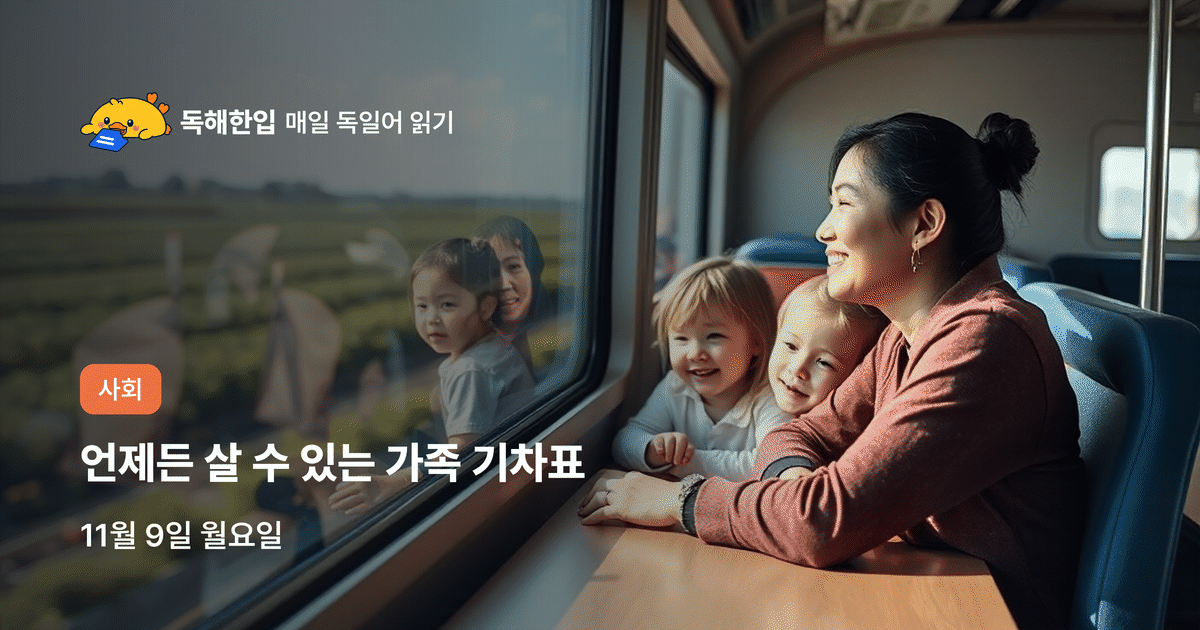
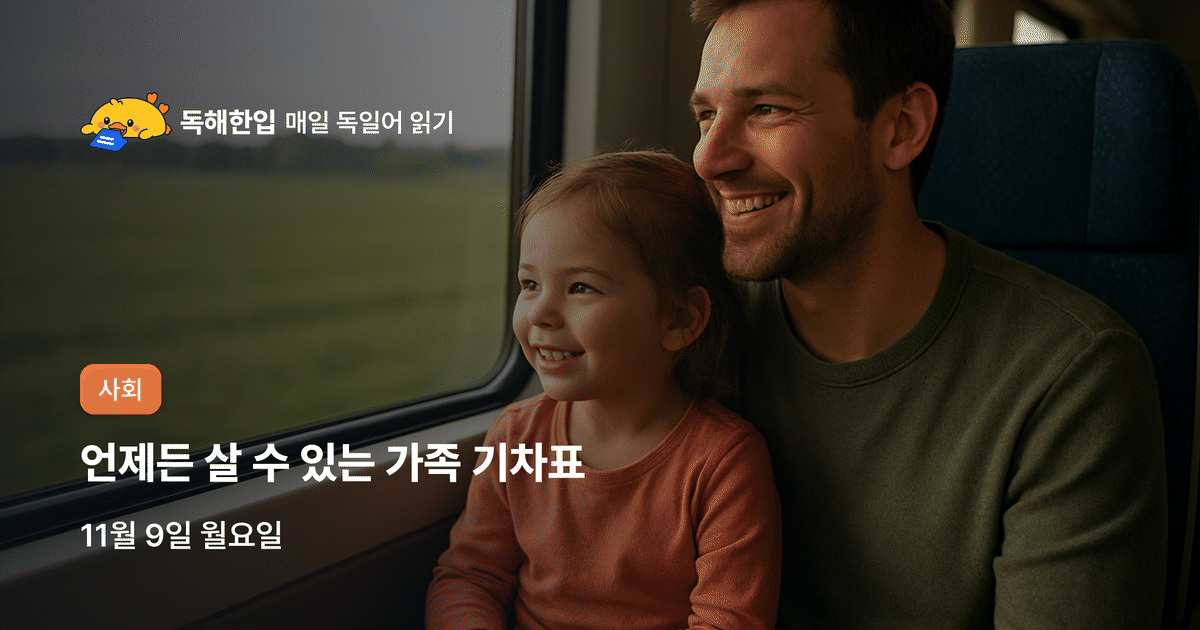
11/9 독일어 사진 교체, 사진 장면은 사람 두 명까지와 반사 금지 규칙 추가
로컬 FLUX 가 가족 넷과 유리창 반사 장면에서 얼굴이 엉키고 다른 얼굴이 비쳤다. Refs #25

diff --git a/tools/ROUTINE.ja.md b/tools/ROUTINE.ja.md
@@ -72,7 +72,7 @@
 5. **한 단계 위 어휘** `advanced`: 6~8개. **N2 수준** 단어, 한국어 뜻(주요 단어와 같은 기준: 사전 대응어로 짧게), 혼동 주의(없으면 `null`), 지문 내용을 그 단어로 바꿔 쓴 예문(해당 단어는 `**…**`), `example_ko`(예문의 한국어 해석, 필수).
 6. 그 밖의 필드: `topic`(한국어 주제어 2~8자, 예: "동네 빵집". 썸네일과 목록에 쓰인다), `title_ko`(페이지와 메일 제목. "오늘은 ___ 이야기예요"에 들어갈 자연스러운 한국어 명사구, 예: "동네의 작은 빵집". 아래 제목 짓는 법을 따른다), `headline`(제목 아래 작게 보이는 일본어 제목. N4 수준의 짧은 제목으로 새로 쓰고 한자에는 후리가나 표기, 예: "{近|ちか}くのパン{屋|や}"), `chips`(`["6문장", "N3 위주", "N3 문법 N문장", "약 4분"]`. N은 `"b2": true` 문장 수), `date`, `category`. `fit`(그날 유형: `news`, `explain`, `life`), `grammar`(쓴 문법 id, 예: `{"b": ["b-will"], "a": ["a-will"]}`, 없으면 각 빈 목록), `keywords`(소재를 나타내는 한국어 명사 2~4개와 장면 유형 1개, 예: `["아르바이트", "서점", "첫 경험"]`).
    **제목 짓는 법**: 원문 기사 제목을 옮기거나 줄이지 말고, 한국 잡지 편집자가 내용을 읽고 새로 붙이는 제목처럼 짓는다. 15자 안팎의 명사구로, 핵심 대상(무엇에 대한 이야기인지)을 꼭 넣는다. "~하려고", "~하기까지의" 같은 설명 꼬리를 길게 붙이지 않고, "환경", "현상" 같은 추상어로만 끝내지 않는다. "오늘은 ___ 이야기예요"에 넣어 소리 내어 읽었을 때 자연스러워야 한다. 좋은 예: "일부러 만든 안개 속 카메라 시험", "스스로 허리를 펴는 나무", "땅에 떨어지는 별똥별", "온천 이용 예절", "독일의 빈 병 보증금". 나쁜 예: "카메라를 시험하려고 일부러 만드는 안개와 비"(설명이 길다), "나무가 몸을 펴는 근육"(번역투), "카메라와 인공 기후 환경"(추상적).
-   - `photo_scene`: 맥 미니 이미지 API 로 썸네일 사진을 생성할 때 쓰는 장면 설명 **(선택 사항)**. 영어 한 문장, 40~300자. 구체적이고 시각적인 장면으로 쓰고 글자나 간판이 보이는 장면은 피한다. 무엇이(주인공), 어디서(배경), 언제 어떤 빛인지(예: 해질녘, 이른 아침 햇살, 흐린 오후), 얼마나 가까이서 보는지(클로즈업, 넓은 풍경)를 함께 쓴다. 주인공이 화면에서 크고 또렷하게 보이는 장면으로 쓴다. 밤하늘처럼 넓고 어두운 장면은 작게 보이면 썸네일에서 알아보기 어려우니 피하거나 가까이 잡는다. 모델은 비유를 글자 그대로 그리니("고사리 같은 서리"가 진짜 고사리로 나왔다) 비유 대신 실제로 보이는 모습으로 쓴다. 주인공이 둘 이상이면 함께 붙어 있는 장면으로 쓴다(따로 떨어뜨리면 하나가 사라졌다). 추상적인 주제(기억, 물가, 외로움, 인공지능 등)는 뜻을 보여 주는 구체적인 장면 하나로 바꾼다. 예: 외로움은 `"A single empty wooden chair by a large rainy window in a quiet room, soft grey daylight."`, 인공지능은 `"A young woman and a friendly white humanoid robot sitting side by side at a desk, looking at the same paper together."` 예: `"Close-up at sunrise of delicate white frost crystals covering the side window of a parked dark car, frosted grass softly blurred behind, cold blue light touched by the first warm rays of sun."` 이 필드가 있으면 발행 시 맥 미니 이미지 API(Tailscale 경유)가 FLUX.1 사진을 생성해 썸네일에 쓴다. 없거나 API 가 응답하지 않으면 OpenAI API 폴백이나 일러스트를 쓴다.
+   - `photo_scene`: 맥 미니 이미지 API 로 썸네일 사진을 생성할 때 쓰는 장면 설명 **(선택 사항)**. 영어 한 문장, 40~300자. 구체적이고 시각적인 장면으로 쓰고 글자나 간판이 보이는 장면은 피한다. 무엇이(주인공), 어디서(배경), 언제 어떤 빛인지(예: 해질녘, 이른 아침 햇살, 흐린 오후), 얼마나 가까이서 보는지(클로즈업, 넓은 풍경)를 함께 쓴다. 주인공이 화면에서 크고 또렷하게 보이는 장면으로 쓴다. 밤하늘처럼 넓고 어두운 장면은 작게 보이면 썸네일에서 알아보기 어려우니 피하거나 가까이 잡는다. 모델은 비유를 글자 그대로 그리니("고사리 같은 서리"가 진짜 고사리로 나왔다) 비유 대신 실제로 보이는 모습으로 쓴다. 주인공이 둘 이상이면 함께 붙어 있는 장면으로 쓴다(따로 떨어뜨리면 하나가 사라졌다). 사람은 두 명까지만 넣는다. 셋 이상이면 얼굴이 뭉개지거나 엉키고 빠지는 사람이 생겼다(2026-11-09 가족 넷 장면). 가족, 단체, 군중이 주제여도 두 사람이나 손, 사물로 보여 준다. 유리창이나 거울에 사람이 비치는 장면은 쓰지 않는다(비친 모습이 다른 얼굴로 나왔다). 추상적인 주제(기억, 물가, 외로움, 인공지능 등)는 뜻을 보여 주는 구체적인 장면 하나로 바꾼다. 예: 외로움은 `"A single empty wooden chair by a large rainy window in a quiet room, soft grey daylight."`, 인공지능은 `"A young woman and a friendly white humanoid robot sitting side by side at a desk, looking at the same paper together."` 예: `"Close-up at sunrise of delicate white frost crystals covering the side window of a parked dark car, frosted grass softly blurred behind, cold blue light touched by the first warm rays of sun."` 이 필드가 있으면 발행 시 맥 미니 이미지 API(Tailscale 경유)가 FLUX.1 사진을 생성해 썸네일에 쓴다. 없거나 API 가 응답하지 않으면 OpenAI API 폴백이나 일러스트를 쓴다.
 
 ### 기초(`levels.a`) 필드
 형식: `"levels": {"a": {"sentences": [{"en": "..."}, ...], "answers": ["...", ...]}}`

diff --git a/tools/ROUTINE.de.md b/tools/ROUTINE.de.md
@@ -68,7 +68,7 @@
 6. **한 단계 위 어휘** `advanced`: **반드시 6~8개**. B2 수준 단어, 한국어 뜻, 혼동 주의(없으면 `null`), 예문(`**…**`), `example_ko`.
 7. 기타: `topic`(한국어 주제어 2~8자), `title_ko`(페이지와 메일 제목. "오늘은 ___ 이야기예요"에 들어갈 자연스러운 한국어 명사구), `headline`(A2 수준 짧은 독일어 제목), `chips`(`["6문장", "B1 위주", "B2 1문장", "약 4분"]`), `date`, `category`. `fit`(그날 유형: `news`, `explain`, `life`), `grammar`(쓴 문법 id, 예: `{"b": ["b-will"], "a": ["a-will"]}`, 없으면 각 빈 목록), `keywords`(소재를 나타내는 한국어 명사 2~4개와 장면 유형 1개, 예: `["아르바이트", "서점", "첫 경험"]`).
    **제목 짓는 법**: 원문 기사 제목을 옮기거나 줄이지 말고, 한국 잡지 편집자가 내용을 읽고 새로 붙이는 제목처럼 짓는다. 15자 안팎의 명사구로, 핵심 대상(무엇에 대한 이야기인지)을 꼭 넣는다. "~하려고", "~하기까지의" 같은 설명 꼬리를 길게 붙이지 않고, "환경", "현상" 같은 추상어로만 끝내지 않는다. "오늘은 ___ 이야기예요"에 넣어 소리 내어 읽었을 때 자연스러워야 한다. 좋은 예: "일부러 만든 안개 속 카메라 시험", "스스로 허리를 펴는 나무", "땅에 떨어지는 별똥별", "온천 이용 예절", "독일의 빈 병 보증금". 나쁜 예: "카메라를 시험하려고 일부러 만드는 안개와 비"(설명이 길다), "나무가 몸을 펴는 근육"(번역투), "카메라와 인공 기후 환경"(추상적).
-   - `photo_scene`: 맥 미니 이미지 API 로 썸네일 사진을 생성할 때 쓰는 장면 설명 **(선택 사항)**. 영어 한 문장, 40~300자. 구체적이고 시각적인 장면으로 쓰고 글자나 간판이 보이는 장면은 피한다. 무엇이(주인공), 어디서(배경), 언제 어떤 빛인지(예: 해질녘, 이른 아침 햇살, 흐린 오후), 얼마나 가까이서 보는지(클로즈업, 넓은 풍경)를 함께 쓴다. 주인공이 화면에서 크고 또렷하게 보이는 장면으로 쓴다. 밤하늘처럼 넓고 어두운 장면은 작게 보이면 썸네일에서 알아보기 어려우니 피하거나 가까이 잡는다. 모델은 비유를 글자 그대로 그리니("고사리 같은 서리"가 진짜 고사리로 나왔다) 비유 대신 실제로 보이는 모습으로 쓴다. 주인공이 둘 이상이면 함께 붙어 있는 장면으로 쓴다(따로 떨어뜨리면 하나가 사라졌다). 추상적인 주제(기억, 물가, 외로움, 인공지능 등)는 뜻을 보여 주는 구체적인 장면 하나로 바꾼다. 예: 외로움은 `"A single empty wooden chair by a large rainy window in a quiet room, soft grey daylight."`, 인공지능은 `"A young woman and a friendly white humanoid robot sitting side by side at a desk, looking at the same paper together."` 예: `"Close-up at sunrise of delicate white frost crystals covering the side window of a parked dark car, frosted grass softly blurred behind, cold blue light touched by the first warm rays of sun."` 이 필드가 있으면 발행 시 맥 미니 이미지 API(Tailscale 경유)가 FLUX.1 사진을 생성해 썸네일에 쓴다. 없거나 API 가 응답하지 않으면 OpenAI API 폴백이나 일러스트를 쓴다.
+   - `photo_scene`: 맥 미니 이미지 API 로 썸네일 사진을 생성할 때 쓰는 장면 설명 **(선택 사항)**. 영어 한 문장, 40~300자. 구체적이고 시각적인 장면으로 쓰고 글자나 간판이 보이는 장면은 피한다. 무엇이(주인공), 어디서(배경), 언제 어떤 빛인지(예: 해질녘, 이른 아침 햇살, 흐린 오후), 얼마나 가까이서 보는지(클로즈업, 넓은 풍경)를 함께 쓴다. 주인공이 화면에서 크고 또렷하게 보이는 장면으로 쓴다. 밤하늘처럼 넓고 어두운 장면은 작게 보이면 썸네일에서 알아보기 어려우니 피하거나 가까이 잡는다. 모델은 비유를 글자 그대로 그리니("고사리 같은 서리"가 진짜 고사리로 나왔다) 비유 대신 실제로 보이는 모습으로 쓴다. 주인공이 둘 이상이면 함께 붙어 있는 장면으로 쓴다(따로 떨어뜨리면 하나가 사라졌다). 사람은 두 명까지만 넣는다. 셋 이상이면 얼굴이 뭉개지거나 엉키고 빠지는 사람이 생겼다(2026-11-09 가족 넷 장면). 가족, 단체, 군중이 주제여도 두 사람이나 손, 사물로 보여 준다. 유리창이나 거울에 사람이 비치는 장면은 쓰지 않는다(비친 모습이 다른 얼굴로 나왔다). 추상적인 주제(기억, 물가, 외로움, 인공지능 등)는 뜻을 보여 주는 구체적인 장면 하나로 바꾼다. 예: 외로움은 `"A single empty wooden chair by a large rainy window in a quiet room, soft grey daylight."`, 인공지능은 `"A young woman and a friendly white humanoid robot sitting side by side at a desk, looking at the same paper together."` 예: `"Close-up at sunrise of delicate white frost crystals covering the side window of a parked dark car, frosted grass softly blurred behind, cold blue light touched by the first warm rays of sun."` 이 필드가 있으면 발행 시 맥 미니 이미지 API(Tailscale 경유)가 FLUX.1 사진을 생성해 썸네일에 쓴다. 없거나 API 가 응답하지 않으면 OpenAI API 폴백이나 일러스트를 쓴다.
 
 ### 기초(levels.a) 지문 필드
 `levels.a`는 중급 지문과 1:1로 대응하는 6개 문장이다.

diff --git a/tools/ROUTINE.md b/tools/ROUTINE.md
@@ -75,7 +75,7 @@
    - `answers`: 문장 순서대로의 모범 해석.
    - `advanced`: 6~8개. `confuse`는 혼동 주의가 없으면 `null`, 있으면 "precious(소중한)와 혼동 주의" 형태. `example`의 해당 단어는 `**단어**`. `example_ko`는 `example` 문장의 자연스러운 한국어 번역(필수). 예: `"example_ko": "지지자들은 30분 안에 주문을 받을 수 있는 편리함을 칭찬합니다."`
    - `source`: 소식과 설명 날은 `{"title": "기사 제목 (매체, YYYY-MM-DD)", "url": "..."}`, 생활 글 날과 출처를 못 찾은 날은 `null`. 출처 없는 글은 페이지에 "특정 기사를 바탕으로 하지 않은 학습용 글"로 표시됩니다.
-   - `photo_scene`: 맥 미니 이미지 API 로 썸네일 사진을 생성할 때 쓰는 장면 설명 **(선택 사항)**. 영어 한 문장, 40~300자. 구체적이고 시각적인 실제 장면을 묘사하고, 글자나 간판이 보이는 장면은 피한다. 무엇이(주인공), 어디서(배경), 언제 어떤 빛인지(예: 해질녘, 이른 아침 햇살, 흐린 오후), 얼마나 가까이서 보는지(클로즈업, 넓은 풍경)를 함께 쓴다. 주인공이 화면에서 크고 또렷하게 보이는 장면으로 쓴다. 밤하늘처럼 넓고 어두운 장면은 작게 보이면 썸네일에서 알아보기 어려우니 피하거나 가까이 잡는다. 모델은 비유를 글자 그대로 그리니("고사리 같은 서리"가 진짜 고사리로 나왔다) 비유 대신 실제로 보이는 모습으로 쓴다. 주인공이 둘 이상이면 함께 붙어 있는 장면으로 쓴다(따로 떨어뜨리면 하나가 사라졌다). 추상적인 주제(기억, 물가, 외로움, 인공지능 등)는 뜻을 보여 주는 구체적인 장면 하나로 바꾼다. 예: 외로움은 `"A single empty wooden chair by a large rainy window in a quiet room, soft grey daylight."`, 인공지능은 `"A young woman and a friendly white humanoid robot sitting side by side at a desk, looking at the same paper together."` 예: `"Close-up at sunrise of delicate white frost crystals covering the side window of a parked dark car, frosted grass softly blurred behind, cold blue light touched by the first warm rays of sun."` 이 필드가 있으면 발행 시 맥 미니 이미지 API(tools/image-api/server.py, Tailscale 경유)가 FLUX.1 사진을 생성해 썸네일에 쓴다. 없거나 API 가 응답하지 않으면 OpenAI API 폴백이나 일러스트를 쓴다.
+   - `photo_scene`: 맥 미니 이미지 API 로 썸네일 사진을 생성할 때 쓰는 장면 설명 **(선택 사항)**. 영어 한 문장, 40~300자. 구체적이고 시각적인 실제 장면을 묘사하고, 글자나 간판이 보이는 장면은 피한다. 무엇이(주인공), 어디서(배경), 언제 어떤 빛인지(예: 해질녘, 이른 아침 햇살, 흐린 오후), 얼마나 가까이서 보는지(클로즈업, 넓은 풍경)를 함께 쓴다. 주인공이 화면에서 크고 또렷하게 보이는 장면으로 쓴다. 밤하늘처럼 넓고 어두운 장면은 작게 보이면 썸네일에서 알아보기 어려우니 피하거나 가까이 잡는다. 모델은 비유를 글자 그대로 그리니("고사리 같은 서리"가 진짜 고사리로 나왔다) 비유 대신 실제로 보이는 모습으로 쓴다. 주인공이 둘 이상이면 함께 붙어 있는 장면으로 쓴다(따로 떨어뜨리면 하나가 사라졌다). 사람은 두 명까지만 넣는다. 셋 이상이면 얼굴이 뭉개지거나 엉키고 빠지는 사람이 생겼다(2026-11-09 가족 넷 장면). 가족, 단체, 군중이 주제여도 두 사람이나 손, 사물로 보여 준다. 유리창이나 거울에 사람이 비치는 장면은 쓰지 않는다(비친 모습이 다른 얼굴로 나왔다). 추상적인 주제(기억, 물가, 외로움, 인공지능 등)는 뜻을 보여 주는 구체적인 장면 하나로 바꾼다. 예: 외로움은 `"A single empty wooden chair by a large rainy window in a quiet room, soft grey daylight."`, 인공지능은 `"A young woman and a friendly white humanoid robot sitting side by side at a desk, looking at the same paper together."` 예: `"Close-up at sunrise of delicate white frost crystals covering the side window of a parked dark car, frosted grass softly blurred behind, cold blue light touched by the first warm rays of sun."` 이 필드가 있으면 발행 시 맥 미니 이미지 API(tools/image-api/server.py, Tailscale 경유)가 FLUX.1 사진을 생성해 썸네일에 쓴다. 없거나 API 가 응답하지 않으면 OpenAI API 폴백이나 일러스트를 쓴다.
    - `levels`: **기초(A 수준) 병행 지문**. 반드시 main 지문과 같은 수의 문장(1:1 대응)으로 씁니다. 없어도 발행은 가능하지만 기초 구독자에게 지문이 전달되지 않습니다. 가능하면 항상 작성합니다.
      형식: `{"a": {"sentences": [{"en": "...", "chunks": [...]}, ...], "answers": ["한국어 해석", ...]}}`
      작성 원칙:
